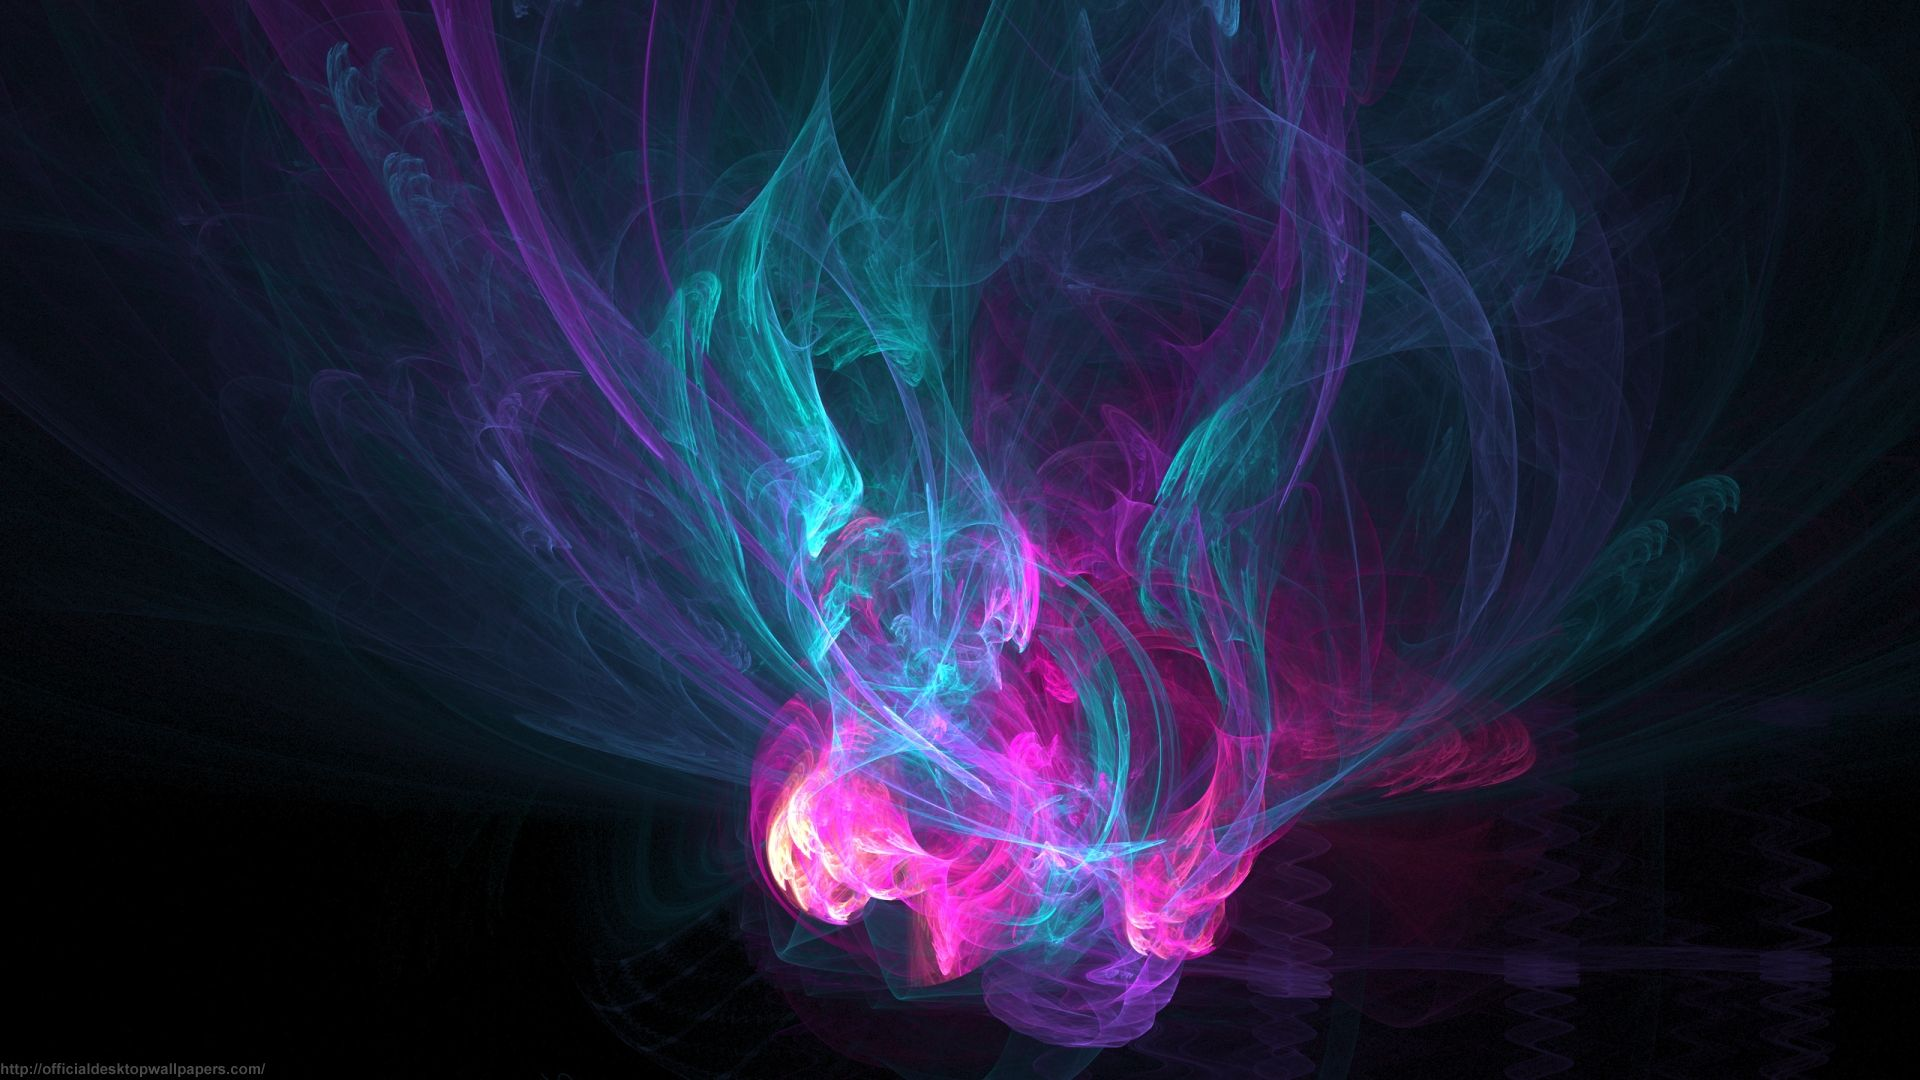
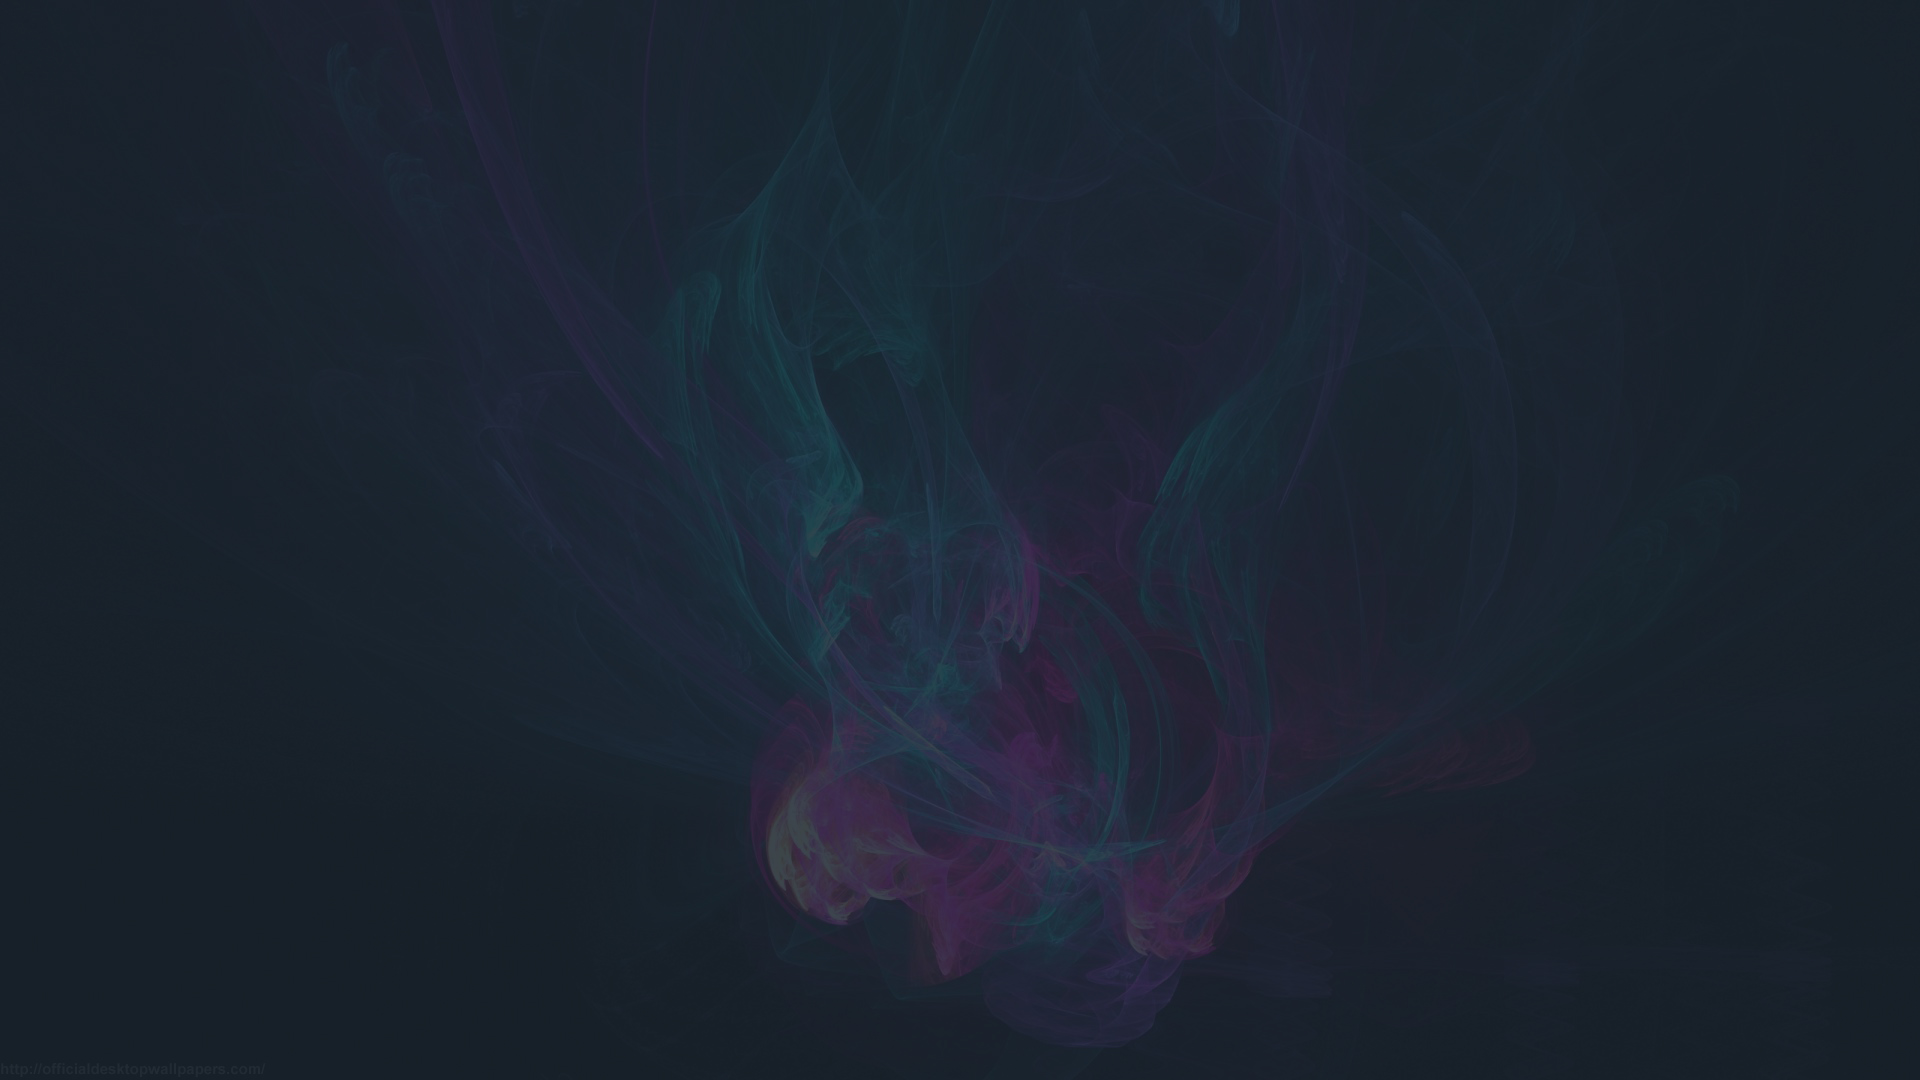
set background-img

diff --git a/pql_css/home.css b/pql_css/home.css
@@ -1,31 +1,22 @@
-.bg{
-    width: 100%;
-    height: 100%;
-    background-image: url(../images/bg-hd.jpg);
+body, html {
+  margin: 0;
+  height: 100%;
 }
 
-.my-container {
-    position: relative;
-    background: #5C97FF;
-    overflow: hidden;
+.bg { 
+  /* The image used */
+  background-image: url("../images/bg-hd.jpg");
+
+  /* Full height */
+  height: 100%; 
+
+  /* Center and scale the image nicely */
+  background-position: center;
+  background-repeat: no-repeat;
+  background-size: cover;
 }
 
-.my-container:before {
-    content: ' ';
-    display: block;
-    position: absolute;
-    left: 0;
-    top: 0;
-    width: 100%;
-    height: 100%;
-    z-index: 1;
-    opacity: 0.2;
-    background-image: url('http://placekitten.com/1500/1000');
-    background-repeat: no-repeat;
-    background-position: 50% 0;
-    -ms-background-size: cover;
-    -o-background-size: cover;
-    -moz-background-size: cover;
-    -webkit-background-size: cover;
-    background-size: cover;
+.header {
+  background-color: #222d32;
+  height: 5%;
 }

diff --git a/index.php b/index.php
@@ -1,14 +1,13 @@
 <!DOCTYPE html>
 <html>
 <head>
-	<title>Home | Preventive Quality Program</title>
+	<title>Home | Machine Predictive Quality</title>
 	<link rel="bootstrap/css/bootstrap.min.css" crossorigin="anonymous">
 	<link rel="stylesheet" type="text/css" href="pql_css/home.css">
 	<script src="bootstrap/js/bootstrap.min.js" crossorigin="anonymous"></script>
 </head>
 <body class="bg">
-	<div class="my-container">
-		<h1>Sample</h1>
-	</div>
+	<div class="header"></div>
+	<!-- <div class="bg"></div> -->
 </body>
 </html>
